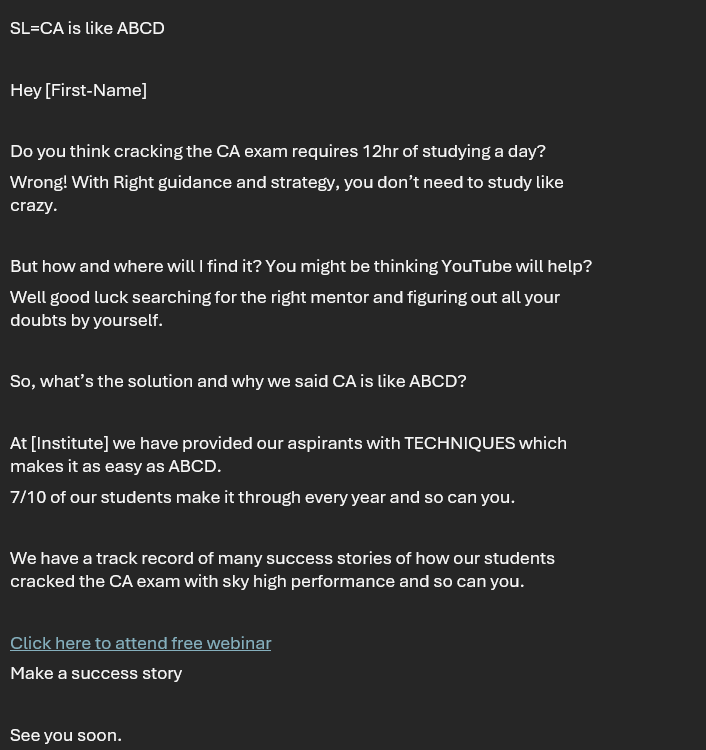
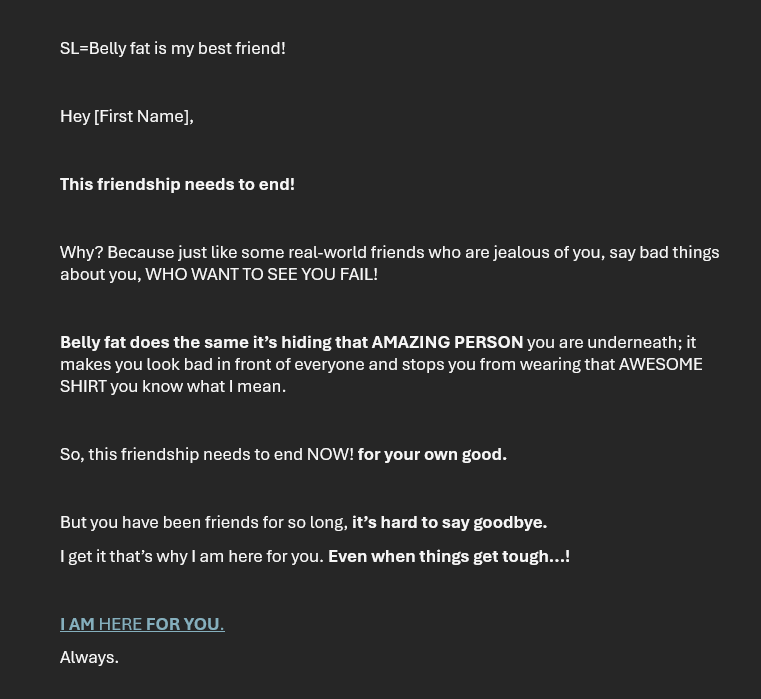
port1

diff --git a/index.html b/index.html
@@ -297,8 +297,8 @@
                 </div>
                 <!-- // Single Portfolio -->
                 <!-- Single Portfolio -->
-                <div class="col-lg-4 col-md-6 mix logo web graphic other wp">
-                    <div class="single-portfolio" style="background-image: url(assets/images/portfolio/img-2.jpg)">
+                <div class="col-lg-4 col-md-6 mix logo web graphic email">
+                    <div class="single-portfolio" style="background-image: url(assets/images/portfolio/img-3.png)">
                         <div class="portfolio-icon text-center">
                             <a data-lightbox='lightbox' href="assets/images/portfolio/img-2.jpg"><i class="fas fa-expand-arrows-alt"></i></a>
                         </div>
